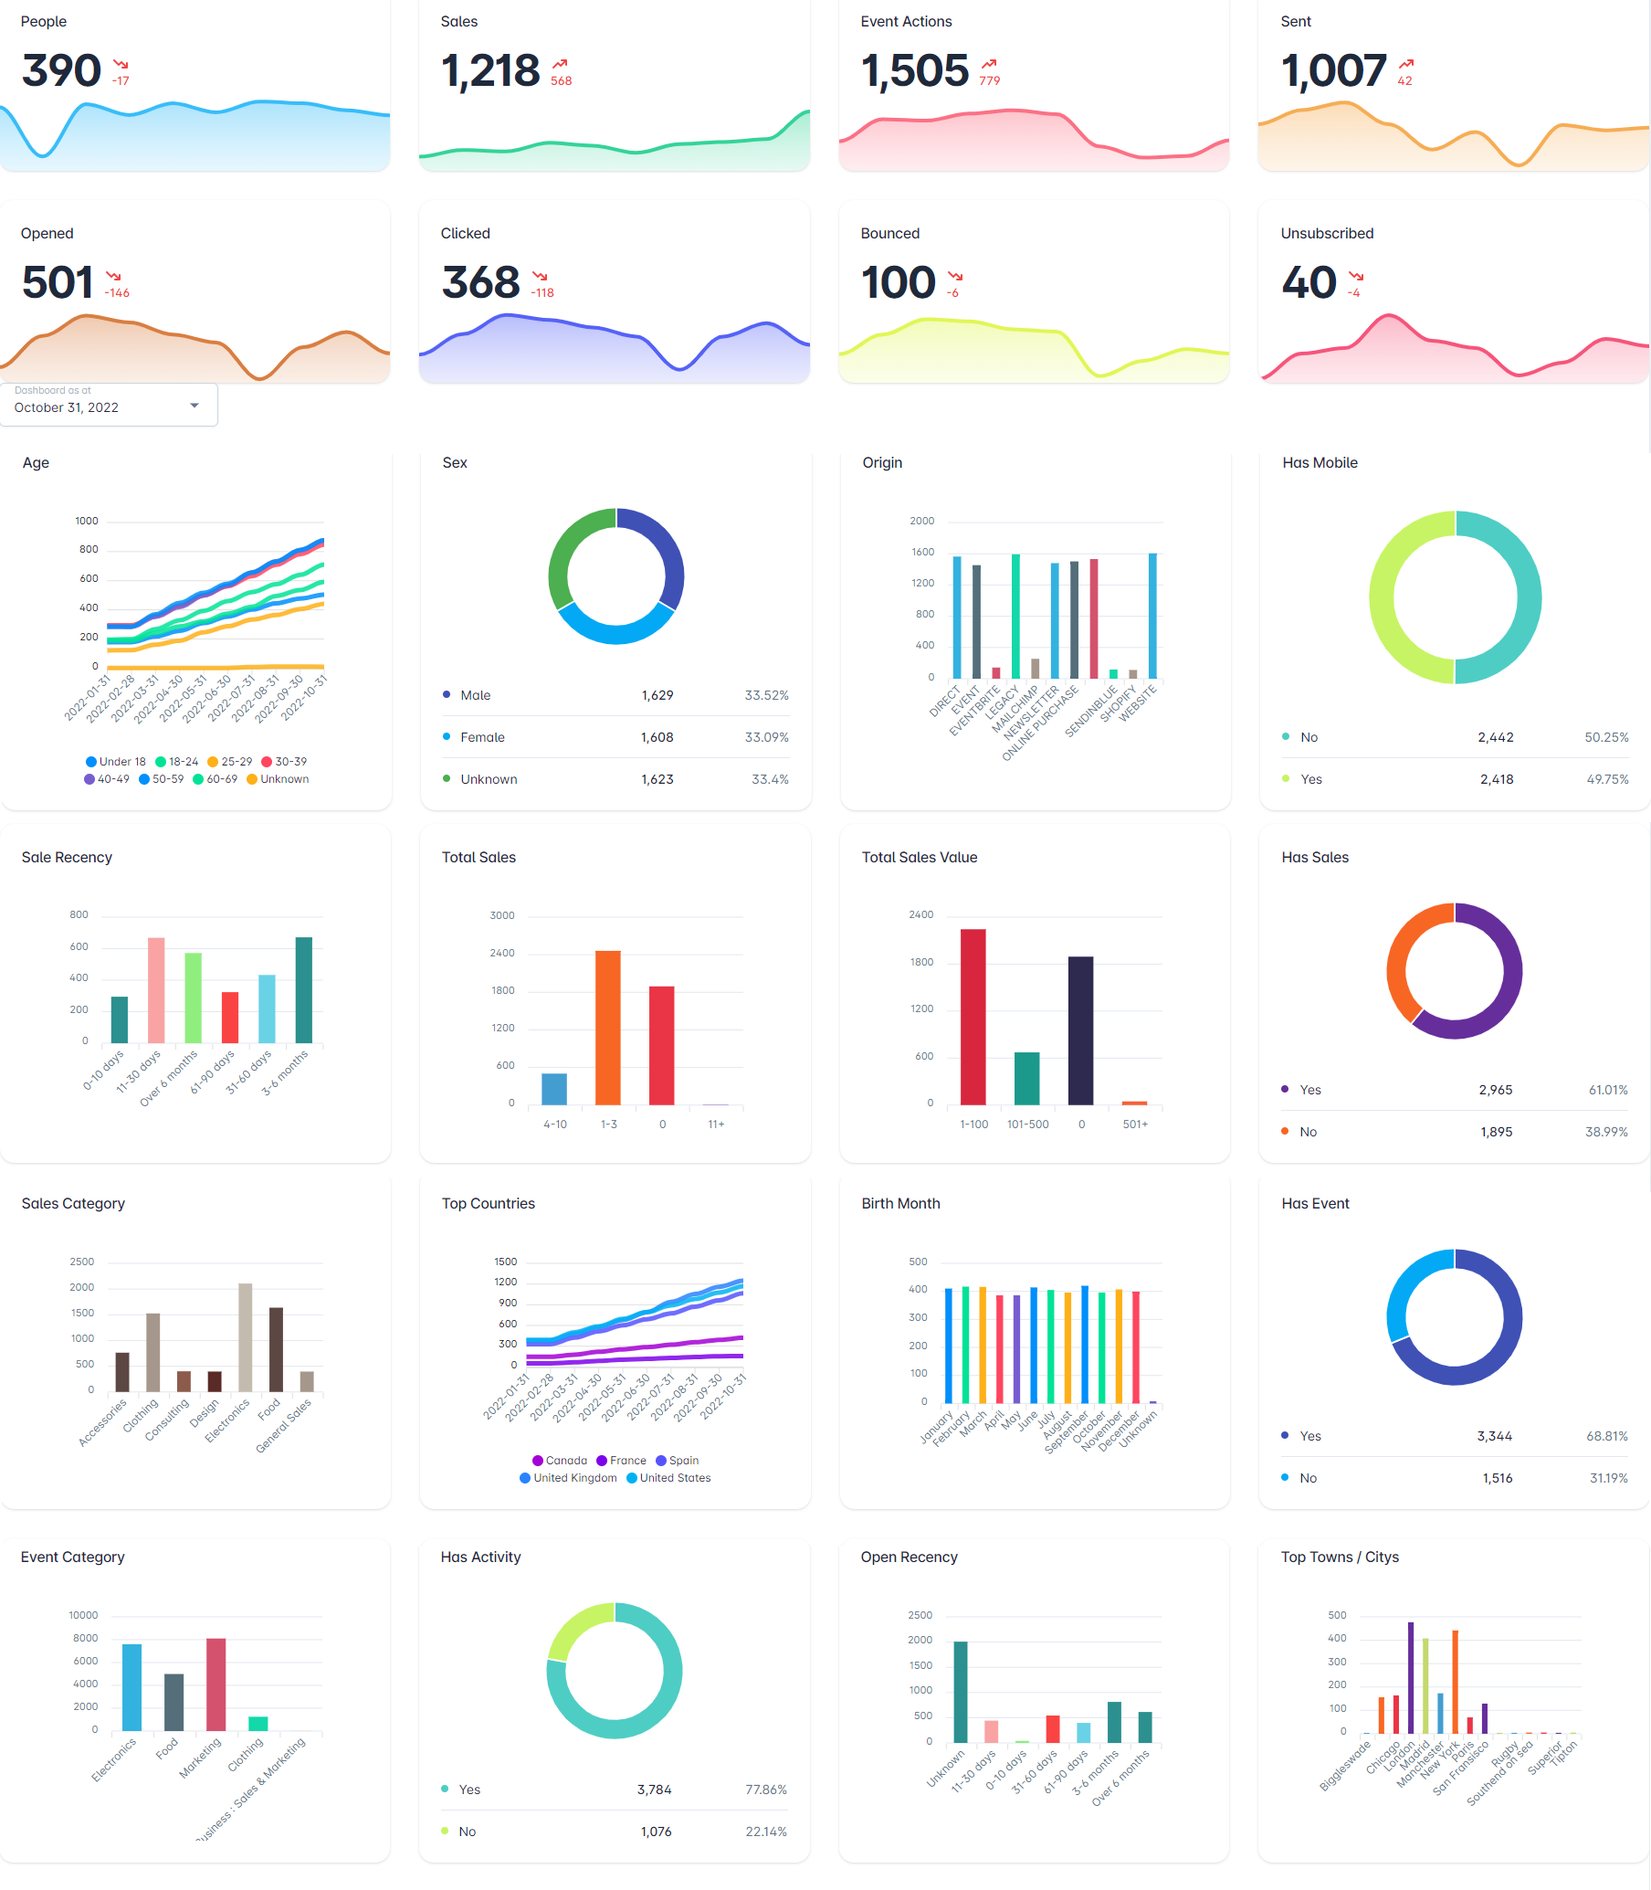
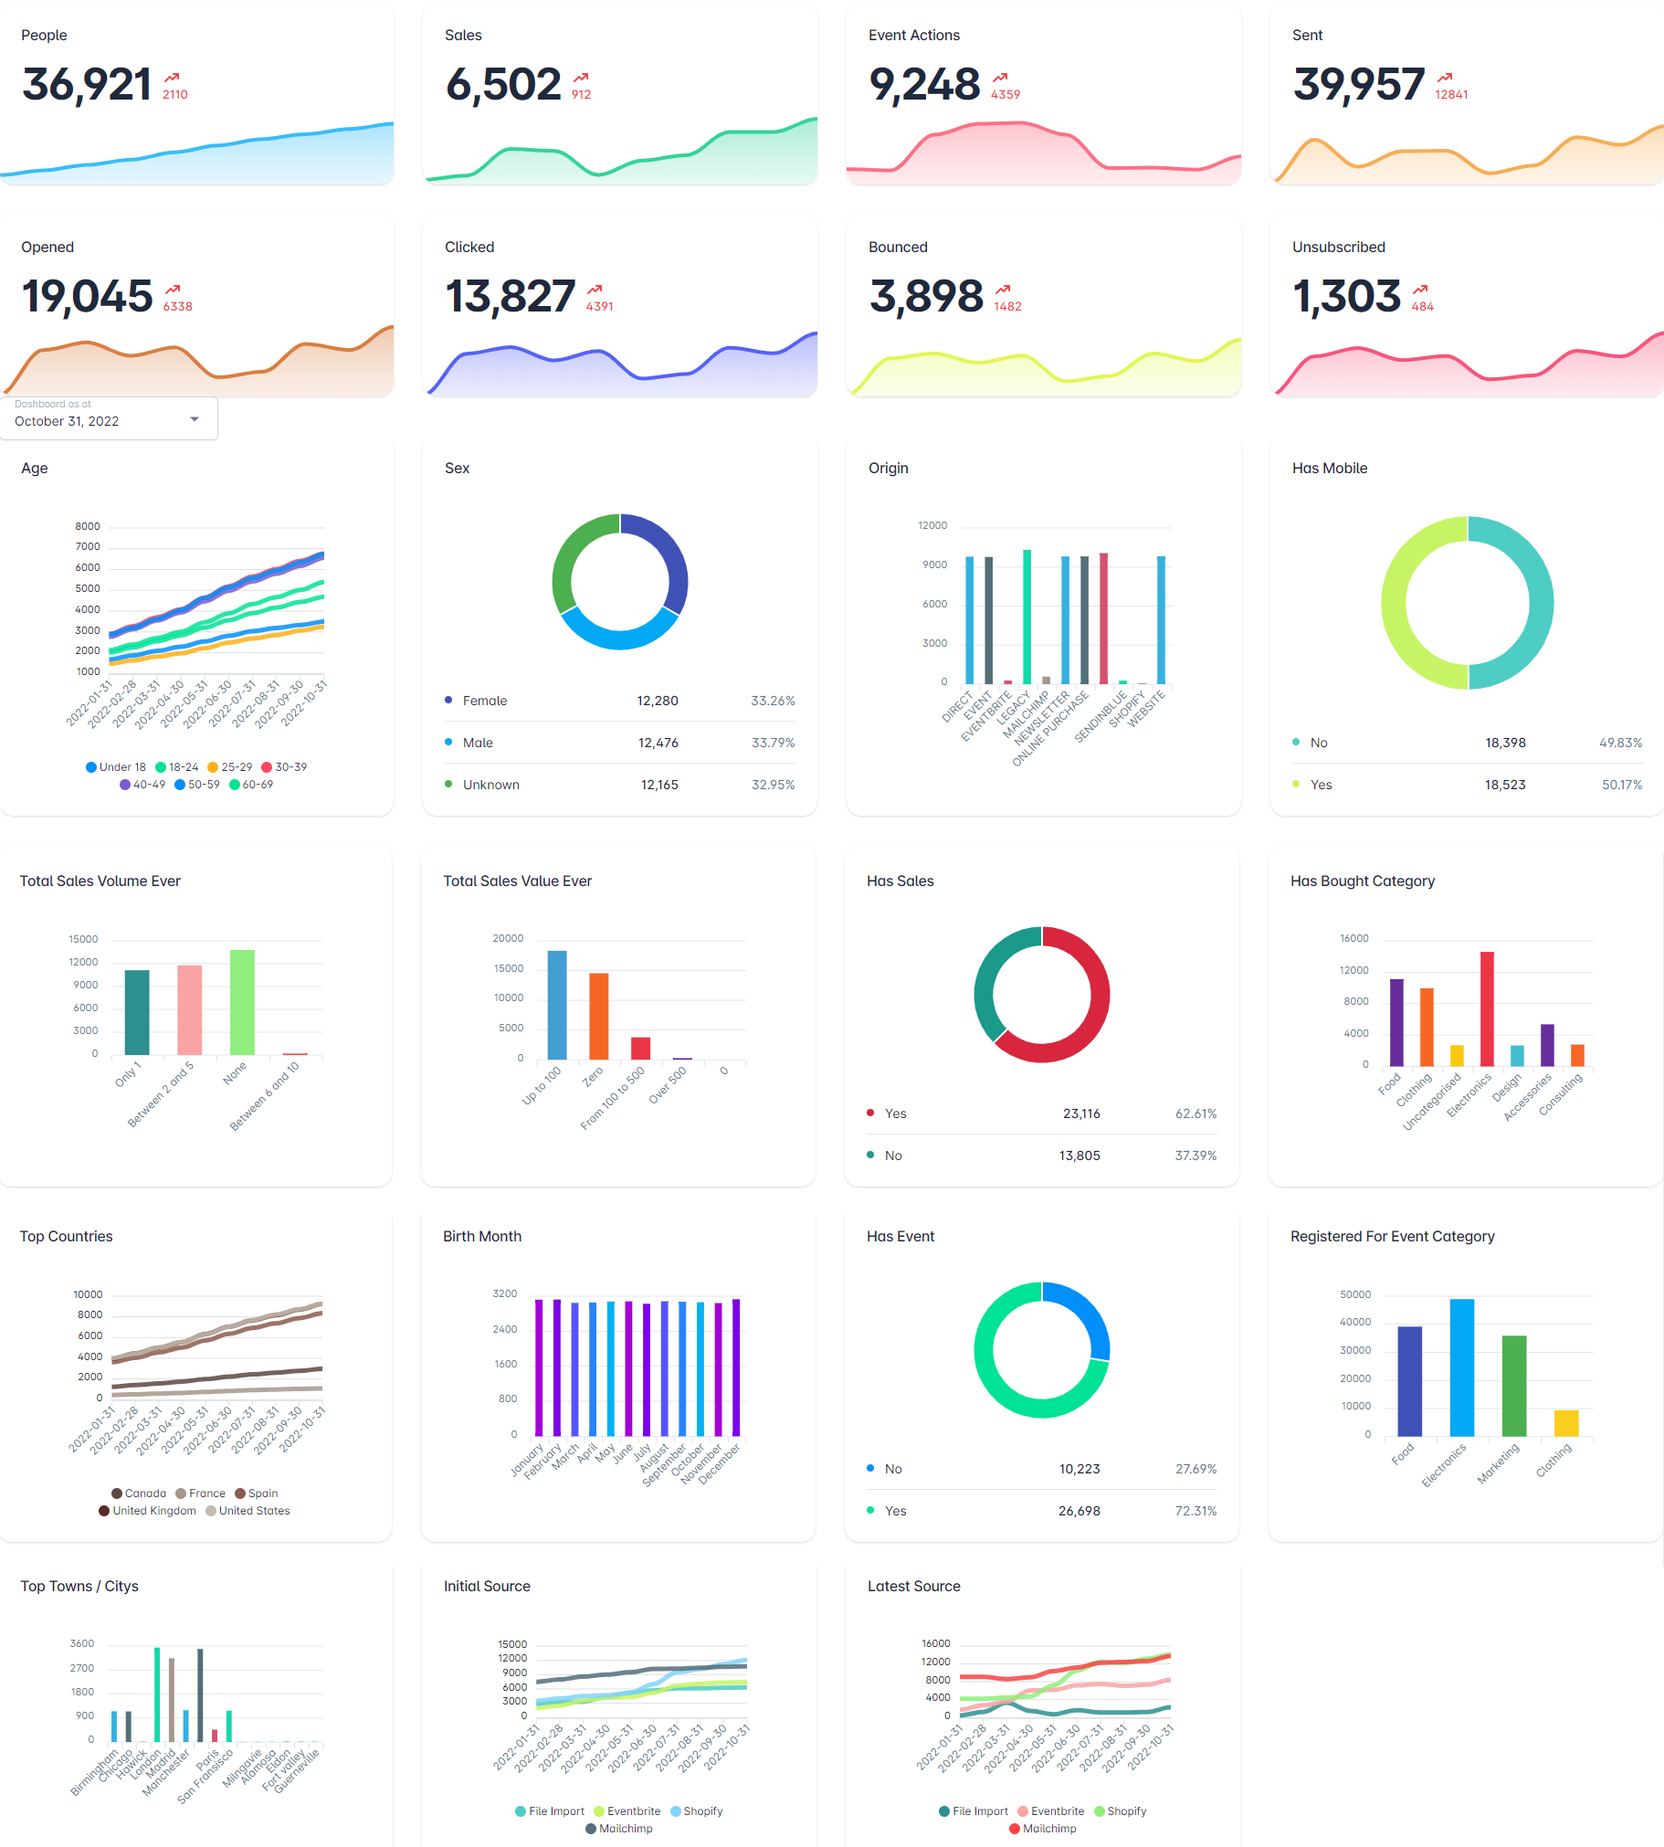
Beta 4

diff --git a/src/app/main/dashboard/dashboard.component.ts b/src/app/main/dashboard/dashboard.component.ts
@@ -43,14 +43,6 @@ export class DashboardComponent implements OnInit, OnDestroy {
     public unsubscribeData = {'amount': -1, 'trend': -1, 'labels' : [], 'series' : [{'name': 'Unsubscribe', 'data':[]}]};
     public bounceData = {'amount': -1, 'trend': -1, 'labels' : [], 'series' : [{'name': 'Bounce', 'data':[]}]};
 
-    public showSales: boolean = false;
-    public showEvents: boolean = false;
-    public showSent: boolean = false;
-    public showOpen: boolean = false;
-    public showClick: boolean = false;
-    public showUnsubscribe: boolean = false;
-    public showBounce: boolean = false;
-
     public allChartData = [];
     public chartAll = [];
 
@@ -122,13 +114,6 @@ export class DashboardComponent implements OnInit, OnDestroy {
             this.dashboardDates = storedDashboard.dashboardDates;
             this.dateItem = storedDashboard.dateItem;
             this.settingList = storedDashboard.settingList;
-            this.showSales = storedDashboard.showSales;
-            this.showSent = storedDashboard.showSent;
-            this.showOpen = storedDashboard.showOpen;
-            this.showClick = storedDashboard.showClick;
-            this.showUnsubscribe = storedDashboard.showUnsubscribe;
-            this.showBounce = storedDashboard.showBounce;
-            this.showEvents = storedDashboard.showEvents;
             this.refreshDashboard(this.dateItem.value);
         } else {
             if (!this.dashboardData || !this.dashboardData.hasData) {
@@ -146,7 +131,7 @@ export class DashboardComponent implements OnInit, OnDestroy {
                         'amount': -1,
                         'trend': -1,
                         'labels': [],
-                        'series': [{'name': 'People', 'data': []}]
+                        'series': [{'name': 'Total Profiles', 'data': []}]
                     };
                     this.salesData = {
                         'amount': -1,
@@ -158,7 +143,7 @@ export class DashboardComponent implements OnInit, OnDestroy {
                         'amount': -1,
                         'trend': -1,
                         'labels': [],
-                        'series': [{'name': 'Event Actions', 'data': []}]
+                        'series': [{'name': 'Event Transactions', 'data': []}]
                     };
                     this.sentData = {
                         'amount': -1,
@@ -170,25 +155,25 @@ export class DashboardComponent implements OnInit, OnDestroy {
                         'amount': -1,
                         'trend': -1,
                         'labels': [],
-                        'series': [{'name': 'Open', 'data': []}]
+                        'series': [{'name': 'Opened', 'data': []}]
                     };
                     this.clickData = {
                         'amount': -1,
                         'trend': -1,
                         'labels': [],
-                        'series': [{'name': 'Click', 'data': []}]
+                        'series': [{'name': 'Clicked', 'data': []}]
                     };
                     this.unsubscribeData = {
                         'amount': -1,
                         'trend': -1,
                         'labels': [],
-                        'series': [{'name': 'Unsubscribe', 'data': []}]
+                        'series': [{'name': 'Unsubscribed', 'data': []}]
                     };
                     this.bounceData = {
                         'amount': -1,
                         'trend': -1,
                         'labels': [],
-                        'series': [{'name': 'Bounce', 'data': []}]
+                        'series': [{'name': 'Bounced', 'data': []}]
                     };
 
                     this.dateLabels = [];
@@ -221,9 +206,6 @@ export class DashboardComponent implements OnInit, OnDestroy {
                                 this.peopleData.series[0].data.unshift(dataItem.value);
                             }
                             if (dataItem.label === 'sales') {
-                                if (dataItem.value !== 0) {
-                                    this.showSales = true;
-                                }
                                 if (this.salesData.amount === -1) {
                                     this.salesData.amount = dataItem.value;
                                 } else {
@@ -235,9 +217,6 @@ export class DashboardComponent implements OnInit, OnDestroy {
                                 this.salesData.series[0].data.unshift(dataItem.value);
                             }
                             if (dataItem.label === 'events') {
-                                if (dataItem.value !== 0) {
-                                    this.showEvents = true;
-                                }
                                 if (this.eventsData.amount === -1) {
                                     this.eventsData.amount = dataItem.value;
                                 } else {
@@ -249,9 +228,6 @@ export class DashboardComponent implements OnInit, OnDestroy {
                                 this.eventsData.series[0].data.unshift(dataItem.value);
                             }
                             if (dataItem.label === 'sent') {
-                                if (dataItem.value !== 0) {
-                                    this.showSent = true;
-                                }
                                 if (this.sentData.amount === -1) {
                                     this.sentData.amount = dataItem.value;
                                 } else {
@@ -263,9 +239,6 @@ export class DashboardComponent implements OnInit, OnDestroy {
                                 this.sentData.series[0].data.unshift(dataItem.value);
                             }
                             if (dataItem.label === 'open') {
-                                if (dataItem.value !== 0) {
-                                    this.showOpen = true;
-                                }
                                 if (this.openData.amount === -1) {
                                     this.openData.amount = dataItem.value;
                                 } else {
@@ -277,9 +250,6 @@ export class DashboardComponent implements OnInit, OnDestroy {
                                 this.openData.series[0].data.unshift(dataItem.value);
                             }
                             if (dataItem.label === 'click') {
-                                if (dataItem.value !== 0) {
-                                    this.showClick = true;
-                                }
                                 if (this.clickData.amount === -1) {
                                     this.clickData.amount = dataItem.value;
                                 } else {
@@ -291,9 +261,6 @@ export class DashboardComponent implements OnInit, OnDestroy {
                                 this.clickData.series[0].data.unshift(dataItem.value);
                             }
                             if (dataItem.label === 'unsubscribe') {
-                                if (dataItem.value !== 0) {
-                                    this.showUnsubscribe = true;
-                                }
                                 if (this.unsubscribeData.amount === -1) {
                                     this.unsubscribeData.amount = dataItem.value;
                                 } else {
@@ -305,9 +272,6 @@ export class DashboardComponent implements OnInit, OnDestroy {
                                 this.unsubscribeData.series[0].data.unshift(dataItem.value);
                             }
                             if (dataItem.label === 'bounce') {
-                                if (dataItem.value !== 0) {
-                                    this.showBounce = true;
-                                }
                                 if (this.bounceData.amount === -1) {
                                     this.bounceData.amount = dataItem.value;
                                 } else {
@@ -976,9 +940,7 @@ export class DashboardComponent implements OnInit, OnDestroy {
             'sentData': this.sentData, 'openData': this.openData, 'clickData': this.clickData, 'unsubscribeData': this.unsubscribeData,
             'bounceData': this.bounceData, 'allChartData': this.allChartData, 'showCharts': this.showCharts,
             'dateItem': this.dateItem, 'hasData': true, 'dashboardDates': this.dashboardDates,
-            'settingList': this.settingList, 'showSales': this.showSales, 'showSent': this.showSent, 'showOpen': this.showOpen,
-            'showClick': this.showClick, 'showUnsubscribe': this.showUnsubscribe, 'showBounce': this.showBounce,
-            'showEvents': this.showEvents
+            'settingList': this.settingList
         };
         this.httpService.storeDashboard(storedDashboard);
         this.dataReady = true;

diff --git a/src/app/main/dashboard/dashboard.component.html b/src/app/main/dashboard/dashboard.component.html
@@ -43,7 +43,7 @@
                     <div
                         class="sm:col-span-1 lg:col-span-1 flex flex-col flex-auto bg-card shadow rounded-2xl overflow-hidden">
                         <div class="flex items-start justify-between m-6 mb-0">
-                            <div class="text-lg font-medium tracking-tight leading-6 truncate">People</div>
+                            <div class="text-lg font-medium tracking-tight leading-6 truncate">Total Profiles</div>
                         </div>
                         <div class="flex flex-col lg:flex-row lg:items-center mx-6 mt-3">
                             <div
@@ -75,10 +75,10 @@
                     </div>
 
                     <!-- Sales -->
-                    <div *ngIf="showSales"
+                    <div
                          class="sm:col-span-1 lg:col-span-1 flex flex-col flex-auto bg-card shadow rounded-2xl overflow-hidden">
                         <div class="flex items-start justify-between m-6 mb-0">
-                            <div class="text-lg font-medium tracking-tight leading-6 truncate">Sales</div>
+                            <div class="text-lg font-medium tracking-tight leading-6 truncate">Sales by period</div>
                         </div>
                         <div class="flex flex-col lg:flex-row lg:items-center mx-6 mt-3">
                             <div
@@ -110,10 +110,10 @@
                     </div>
 
                     <!-- Events -->
-                    <div *ngIf="showEvents"
+                    <div
                          class="sm:col-span-1 lg:col-span-1 flex flex-col flex-auto bg-card shadow rounded-2xl overflow-hidden">
                         <div class="flex items-start justify-between m-6 mb-0">
-                            <div class="text-lg font-medium tracking-tight leading-6 truncate">Event Actions</div>
+                            <div class="text-lg font-medium tracking-tight leading-6 truncate">Event Transactions by period</div>
                         </div>
                         <div class="flex flex-col lg:flex-row lg:items-center mx-6 mt-3">
                             <div
@@ -145,10 +145,10 @@
                     </div>
 
                     <!-- Sent -->
-                    <div *ngIf="showSent"
+                    <div
                         class="sm:col-span-1 lg:col-span-1 flex flex-col flex-auto bg-card shadow rounded-2xl overflow-hidden">
                         <div class="flex items-start justify-between m-6 mb-0">
-                            <div class="text-lg font-medium tracking-tight leading-6 truncate">Sent</div>
+                            <div class="text-lg font-medium tracking-tight leading-6 truncate">Sent by period</div>
                         </div>
                         <div class="flex flex-col lg:flex-row lg:items-center mx-6 mt-3">
                             <div
@@ -180,10 +180,10 @@
                     </div>
 
                     <!-- Open -->
-                    <div *ngIf="showOpen"
+                    <div
                         class="sm:col-span-1 lg:col-span-1 flex flex-col flex-auto bg-card shadow rounded-2xl overflow-hidden">
                         <div class="flex items-start justify-between m-6 mb-0">
-                            <div class="text-lg font-medium tracking-tight leading-6 truncate">Opened</div>
+                            <div class="text-lg font-medium tracking-tight leading-6 truncate">Opened by period</div>
                         </div>
                         <div class="flex flex-col lg:flex-row lg:items-center mx-6 mt-3">
                             <div
@@ -215,10 +215,10 @@
                     </div>
 
                     <!-- Click -->
-                    <div *ngIf="showClick"
+                    <div
                         class="sm:col-span-1 lg:col-span-1 flex flex-col flex-auto bg-card shadow rounded-2xl overflow-hidden">
                         <div class="flex items-start justify-between m-6 mb-0">
-                            <div class="text-lg font-medium tracking-tight leading-6 truncate">Clicked</div>
+                            <div class="text-lg font-medium tracking-tight leading-6 truncate">Clicked by period</div>
                         </div>
                         <div class="flex flex-col lg:flex-row lg:items-center mx-6 mt-3">
                             <div
@@ -250,10 +250,10 @@
                     </div>
 
                     <!-- Bounce -->
-                    <div *ngIf="showBounce"
+                    <div
                          class="sm:col-span-1 lg:col-span-1 flex flex-col flex-auto bg-card shadow rounded-2xl overflow-hidden">
                         <div class="flex items-start justify-between m-6 mb-0">
-                            <div class="text-lg font-medium tracking-tight leading-6 truncate">Bounced</div>
+                            <div class="text-lg font-medium tracking-tight leading-6 truncate">Bounced by period</div>
                         </div>
                         <div class="flex flex-col lg:flex-row lg:items-center mx-6 mt-3">
                             <div
@@ -285,7 +285,7 @@
                     </div>
 
                     <!-- Unsubscribe -->
-                    <div *ngIf="showUnsubscribe"
+                    <div
                         class="sm:col-span-1 lg:col-span-1 flex flex-col flex-auto bg-card shadow rounded-2xl overflow-hidden">
                         <div class="flex items-start justify-between m-6 mb-0">
                             <div class="text-lg font-medium tracking-tight leading-6 truncate">Unsubscribed</div>

diff --git a/src/app/main/data/import.component.html b/src/app/main/data/import.component.html
@@ -67,7 +67,7 @@
                                     </div>
                                     <div *ngIf="hasLayout">
                                         <div align="right" class="basis-6/12" *ngIf="!getLayoutName">
-                                            <button class="fuse-mat-button-large w-70 mt-2 bg-primary-500"
+                                            <button class="fuse-mat-button-large w-70 mt-2 bg-primary-600"
                                                     mat-flat-button type="button"
                                                     (click)="doGetLayoutName()">Save layout
                                             </button>
@@ -96,7 +96,7 @@
                                         </div>
                                     </div>
                                     <div class="basis-4/12" fxLayoutAlign="right" *ngIf="getLayoutName">
-                                        <button class="fuse-mat-button-large w-70 mt-2 bg-primary-500"
+                                        <button class="fuse-mat-button-large w-70 mt-2 bg-primary-600"
                                                 mat-flat-button type="button"
                                                 [disabled]="!importForm.controls.name.value"
                                                 (click)="doSaveLayout(false)">
